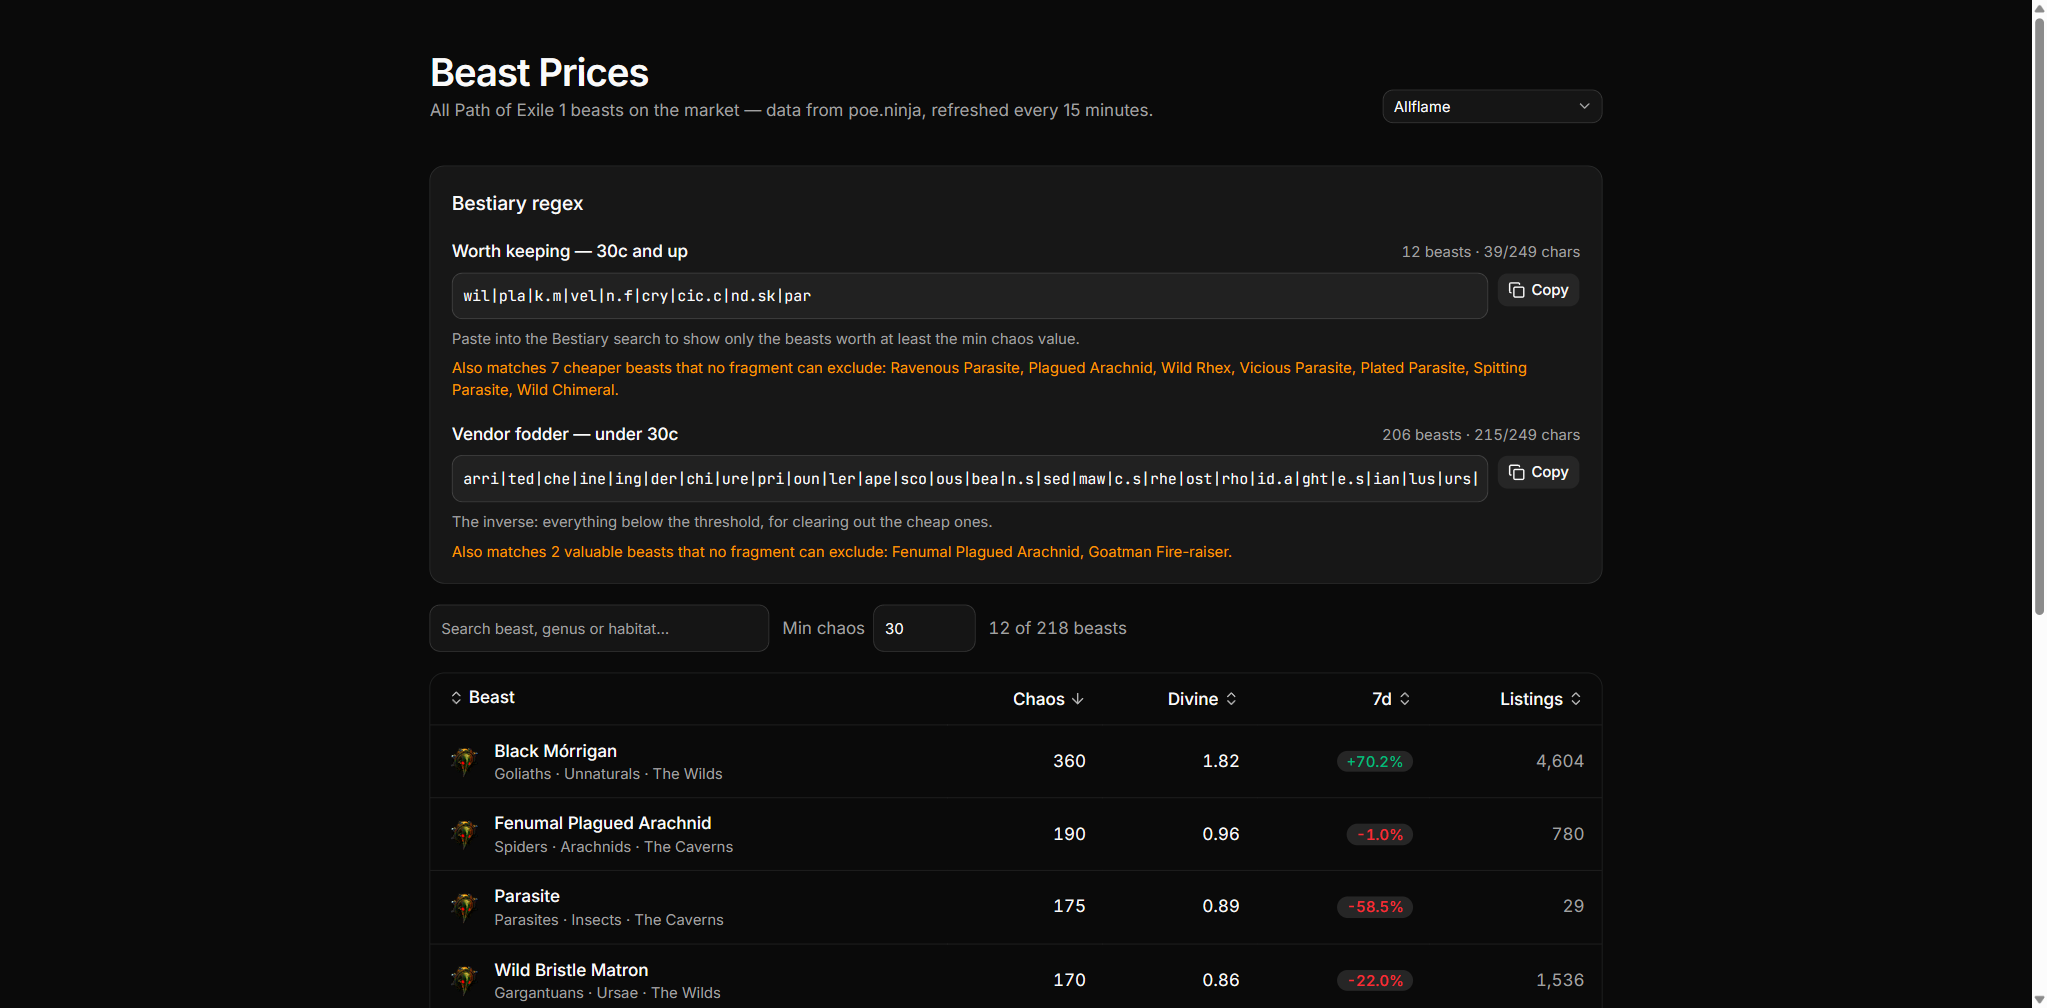
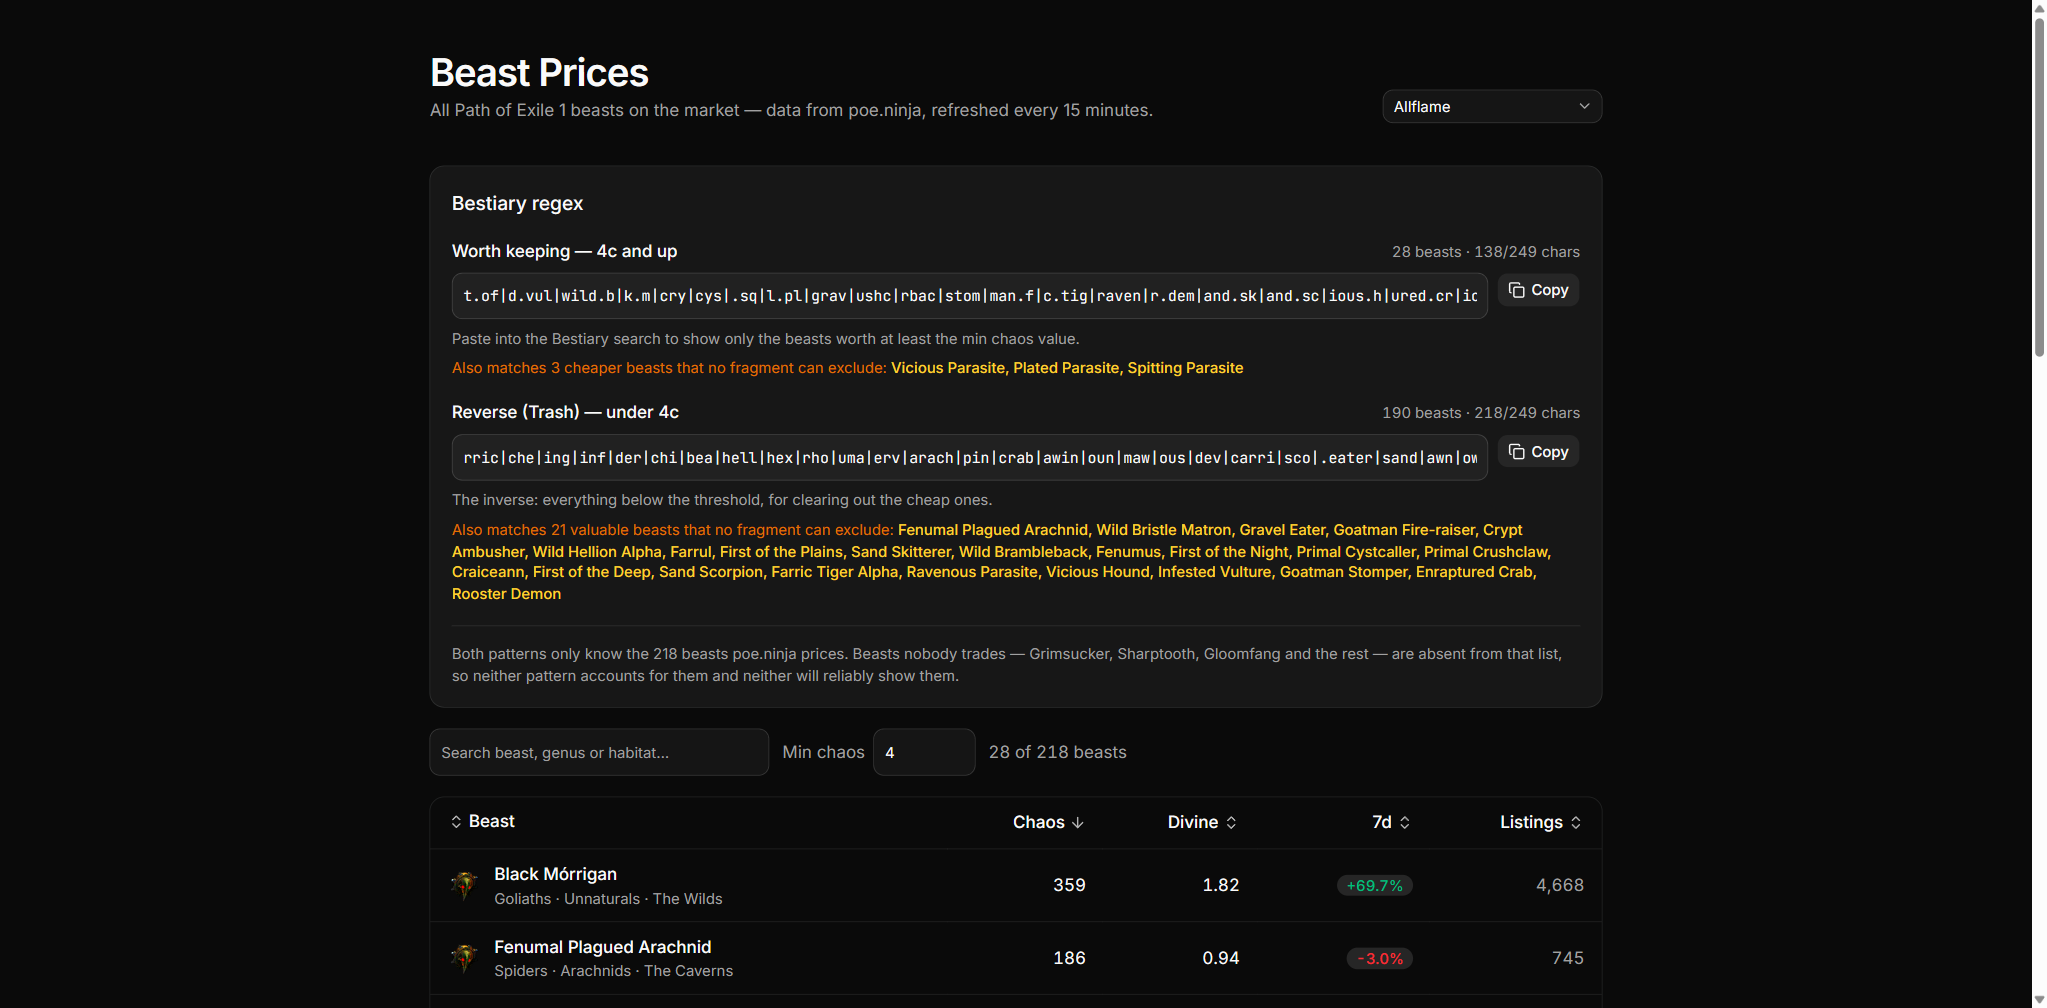
Report uncovered beasts and colour the warning lines
The beasts reported as missing from a pattern (Grimsucker, Sharptooth,
Gloomfang, Deathclaw the Mad, Darkslice, Grayshriek) are not in
poe.ninja's data at all: it prices 218 traded beasts, and untraded ones
never appear. No pattern built from that list can account for them, so
the panel now says so outright.

Alongside it, each pattern reports the wanted beasts it fails to match,
computed with the same matcher the extras use, so a gap is stated rather
than assumed absent. Warning sentences and the beast names they list now
carry separate colours.

diff --git a/src/components/beast-table.tsx b/src/components/beast-table.tsx
@@ -4,7 +4,11 @@ import { useMemo, useState } from "react";
 import Image from "next/image";
 import { ArrowDown, ArrowUp, Check, ChevronsUpDown, Copy } from "lucide-react";
 import type { Beast } from "@/lib/ninja";
-import { buildBestiaryRegex, MAX_PATTERN_LENGTH } from "@/lib/bestiary-regex";
+import {
+  buildBestiaryRegex,
+  matchesBestiaryPattern,
+  MAX_PATTERN_LENGTH,
+} from "@/lib/bestiary-regex";
 import { Input } from "@/components/ui/input";
 import { Badge } from "@/components/ui/badge";
 import { Button } from "@/components/ui/button";
@@ -54,14 +58,20 @@ function PatternRow({
 }) {
   const [copied, setCopied] = useState(false);
 
-  const { pattern, overmatched } = useMemo(
-    () =>
-      buildBestiaryRegex(
-        wanted.map((b) => b.name),
-        unwanted.map((b) => b.name),
-      ),
-    [wanted, unwanted],
-  );
+  const { pattern, overmatched, missing } = useMemo(() => {
+    const result = buildBestiaryRegex(
+      wanted.map((b) => b.name),
+      unwanted.map((b) => b.name),
+    );
+    return {
+      ...result,
+      missing: result.pattern
+        ? wanted
+            .map((b) => b.name)
+            .filter((name) => !matchesBestiaryPattern(result.pattern!, name))
+        : wanted.map((b) => b.name),
+    };
+  }, [wanted, unwanted]);
 
   async function copy() {
     if (!pattern) return;
@@ -103,12 +113,40 @@ function PatternRow({
       <p className="text-muted-foreground text-sm">{hint}</p>
 
       {pattern && overmatched.length > 0 && (
-        <p className="text-sm text-amber-500">
-          Also matches {overmatched.length} {extrasLabel}:{" "}
-          {overmatched.join(", ")}.
-        </p>
+        <Notice tone="amber" text={`Also matches ${overmatched.length} ${extrasLabel}:`}>
+          {overmatched}
+        </Notice>
+      )}
+
+      {missing.length > 0 && (
+        <Notice
+          tone="red"
+          text={`Does not match ${missing.length} of the ${wanted.length} it should:`}
+        >
+          {missing}
+        </Notice>
       )}
     </div>
+  );
+}
+
+/** Warning line: the sentence and the beast names get their own colours. */
+function Notice({
+  tone,
+  text,
+  children,
+}: {
+  tone: "amber" | "red";
+  text: string;
+  children: string[];
+}) {
+  const sentence = tone === "amber" ? "text-amber-600" : "text-red-600";
+  const names = tone === "amber" ? "text-amber-300" : "text-red-300";
+
+  return (
+    <p className={`text-sm ${sentence}`}>
+      {text} <span className={`${names} font-medium`}>{children.join(", ")}</span>
+    </p>
   );
 }
 
@@ -156,6 +194,13 @@ function BestiaryRegex({
         unwanted={kept}
         extrasLabel="valuable beasts that no fragment can exclude"
       />
+
+      <p className="text-muted-foreground border-t pt-4 text-sm">
+        Both patterns only know the {beasts.length} beasts poe.ninja prices.
+        Beasts nobody trades — Grimsucker, Sharptooth, Gloomfang and the rest —
+        are absent from that list, so neither pattern accounts for them and
+        neither will reliably show them.
+      </p>
     </div>
   );
 }
